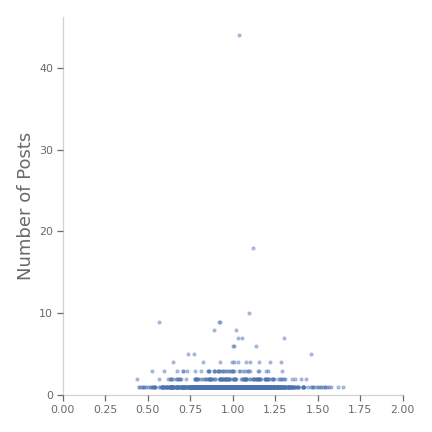
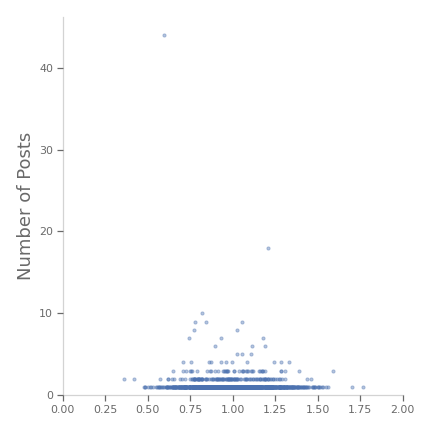
exploring biggest posters

Changed region(s): [[0.3009, 0.7523, 0.8426, 0.9028], [0.4514, 0.7222, 0.4815, 0.7523]]

diff --git a/wsba.py b/wsba.py
@@ -91,7 +91,7 @@ def getdaterange():
     #print(first,last)
     return first,last
 
-def groupbyauthor(show=False):
+def groupbyauthor(show=False, min=0):
     '''
     returns num_unique_posters, poster_names, poster_counts
     '''
@@ -104,9 +104,12 @@ def groupbyauthor(show=False):
     for x in authors:
         if x['count'] > 1 and show:
             print(x)
-        i += 1
-        post_counts.append(x['count'])
-        posters.append(x['_id'])
+    
+        if x['count'] >= min:
+            i += 1
+            post_counts.append(x['count'])
+            posters.append(x['_id'])
+            
     return (i, posters, post_counts)
 
 def makeauthorfigures():
@@ -133,6 +136,22 @@ def makeauthorfigures():
     plt.tight_layout()
     plt.yscale('log')
     plt.savefig('figures/pda_numposts_hist.png')
+    
+    num, authors, counts = groupbyauthor(show=False, min=6)
+    fig, ax = plt.subplots(1,1, figsize=(6,6))
+    ax.barh(y=authors, width=counts)
+    ax.set_ylabel('Most Productive Posters')
+    ax.set_xlabel('Number of Posts')
+    plt.tight_layout()
+    plt.savefig('figures/pda_biggestposters.png')
+    
+def makebiggestauthortable():
+    num, authors, counts = groupbyauthor(show=False, min=6)
+    #https://www.reddit.com/user/Anal_Chem/
+    print('| Poster | Post Count |')
+    print('| ------ | ---------- |')
+    for author,count in zip(authors,counts):
+        print(f'| <a href=https://www.reddit.com/user/{author}/>{author}</a> | {count} |')
     
 if __name__ != '__main__':
     setup()

diff --git a/README.md b/README.md
@@ -10,7 +10,7 @@ Hence, the structure of this online community is worthy of investigation because
 
 # The Data
 
-As of 03/31/21, the dataset consisted of 1689 submissions to r/WallStreetBets from 03/18/21 to 03/31/21. These were scraped using the Reddit API using a tool I developed, [WSBScraper](https://github.com/AndrewSamaha/WSBScraper), which saves posts to a MongoDB.
+As of 04/01/21, the dataset consisted of 1689 submissions to r/WallStreetBets from 03/18/21 to 03/31/21. These were scraped using the Reddit API using a tool I developed, [WSBScraper](https://github.com/AndrewSamaha/WSBScraper), which saves posts to a MongoDB.
 
 A Sample:
 ```
@@ -18,10 +18,27 @@ A Sample:
 ```
 
 # The authors
-A total of 1300 submission authors are represented in the data. The plot below shows a histogram of the authors ranked from most to lease posts. Note the vast majority of posters only posted once during the time period. Conversely, a minority of posters contributed 2 or more posts.
+A total of 1300 submission authors are represented in the data. The plot below shows a histogram of the authors ranked from most to lease posts. Note the vast majority of posters only posted once during the time period. Conversely, a minority of posters contributed 6 or more posts.
 ![Figure 1](figures/pda_numposts.png)
 ![Figure 1](figures/pda_numposts_hist.png)
-<Figure size 432x432 with 1 Axes><Figure size 432x432 with 1 Axes>
+![Figure 1](figures/pda_biggestposters.png)
+<Figure size 432x432 with 1 Axes><Figure size 432x432 with 1 Axes><Figure size 432x432 with 1 Axes>
+| Poster | Post Count |
+| ------ | ---------- |
+| <a href=https://www.reddit.com/user/OPINION_IS_UNPOPULAR/>OPINION_IS_UNPOPULAR</a> | 44 |
+| <a href=https://www.reddit.com/user/disgruntledbkbum/>disgruntledbkbum</a> | 18 |
+| <a href=https://www.reddit.com/user/pdwp90/>pdwp90</a> | 10 |
+| <a href=https://www.reddit.com/user/Jesus_Gains_Christ/>Jesus_Gains_Christ</a> | 9 |
+| <a href=https://www.reddit.com/user/CMScientist/>CMScientist</a> | 9 |
+| <a href=https://www.reddit.com/user/AutoModerator/>AutoModerator</a> | 9 |
+| <a href=https://www.reddit.com/user/GrubbyWango/>GrubbyWango</a> | 8 |
+| <a href=https://www.reddit.com/user/Citor3_scenes/>Citor3_scenes</a> | 8 |
+| <a href=https://www.reddit.com/user/Anal_Chem/>Anal_Chem</a> | 7 |
+| <a href=https://www.reddit.com/user/dvdgelman7/>dvdgelman7</a> | 7 |
+| <a href=https://www.reddit.com/user/DanyeelsAnulmint/>DanyeelsAnulmint</a> | 7 |
+| <a href=https://www.reddit.com/user/GmeCalls-UrWifesBf/>GmeCalls-UrWifesBf</a> | 6 |
+| <a href=https://www.reddit.com/user/indonesian_activist/>indonesian_activist</a> | 6 |
+| <a href=https://www.reddit.com/user/Professional_War1998/>Professional_War1998</a> | 6 |
 
 # Technology Stack
 1. Python
@@ -30,4 +47,4 @@ A total of 1300 submission authors are represented in the data. The plot below s
 1. Matplotlib (visualization)
 1. PWeave (this readme)
 
-_This file was compiled on 2021-03-31._
+_This file was compiled on 2021-04-01._
